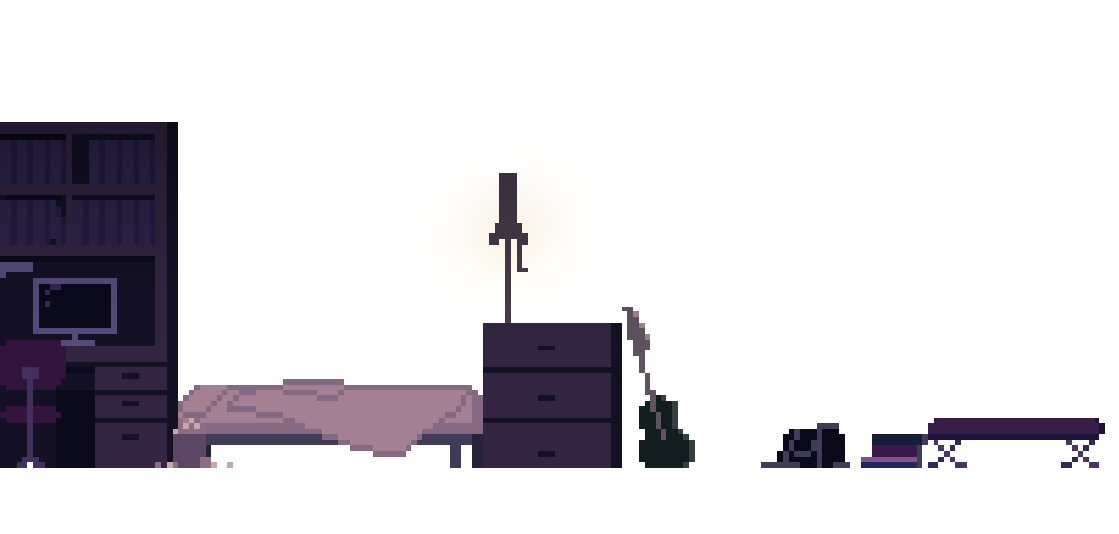
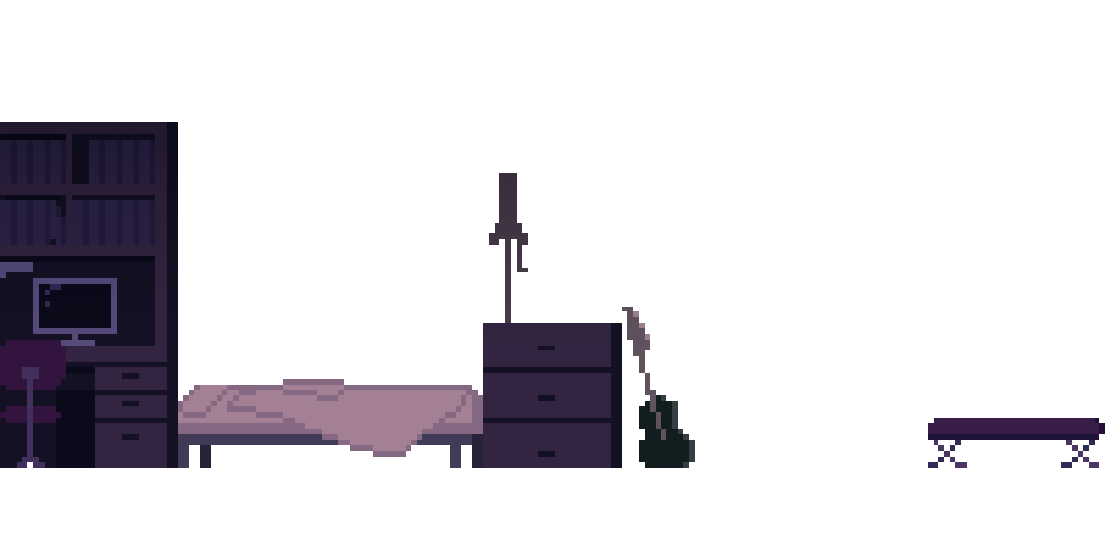
キャラクターの前に表示するオブジェクトを追加する

diff --git a/src/pages/exhibition/index.tsx b/src/pages/exhibition/index.tsx
@@ -2,6 +2,8 @@ import React, { useCallback, useState } from "react";
 import { Exhibition2dBackground } from "~/components/Exhibition/2d/Background";
 import { Exhibition2dCanvas } from "~/components/Exhibition/2d/Canvas";
 import { Exhibition2dCharacter } from "~/components/Exhibition/2d/Character";
+import { Exhibition2dForeground } from "~/components/Exhibition/2d/Foreground";
+import { EXHIBITION_2D_MAX_STEP } from "~/constants/exhibition";
 import { useKeydown } from "~/hooks/useKeydown";
 
 const ExhibitionIndex: React.FC = () => {
@@ -14,10 +16,14 @@ const ExhibitionIndex: React.FC = () => {
 
       if (key === "a" || key === "ArrowLeft") difference = difference - 1;
       if (key === "d" || key === "ArrowRight") difference = difference + 1;
-      if (difference === 0 || step + difference < 0) return;
+      if (difference === 0) return;
+
+      const nextStep = step + difference;
+
+      if (nextStep < 0 || nextStep > EXHIBITION_2D_MAX_STEP) return;
 
       setDirection(difference < 0 ? "left" : "right");
-      setStep(step + difference);
+      setStep(nextStep);
     },
     [step]
   );
@@ -30,6 +36,7 @@ const ExhibitionIndex: React.FC = () => {
     <Exhibition2dCanvas>
       <Exhibition2dBackground step={step} />
       <Exhibition2dCharacter direction={direction} step={step} />
+      <Exhibition2dForeground step={step} />
     </Exhibition2dCanvas>
   );
 };

diff --git a/src/components/Exhibition/2d/Background.tsx b/src/components/Exhibition/2d/Background.tsx
@@ -1,26 +1,17 @@
 import React from "react";
-import { EXHIBITION_2D_HEIGHT } from "~/constants/exhibition";
-
-const Image: React.FC<{ speed?: number; step: number; url: string }> = ({
-  speed,
-  step,
-  url,
-}) => (
-  <image
-    height={EXHIBITION_2D_HEIGHT}
-    style={{
-      imageRendering: "pixelated",
-    }}
-    transform={`translate(-${step * 4 * (speed || 1)} 0)`}
-    xlinkHref={url}
-  />
-);
+import { Exhibition2dObject } from "./Object";
 
 export const Exhibition2dBackground: React.FC<{ step: number }> = React.memo(
   ({ step }) => (
     <>
-      <Image speed={0.9} step={step} url="/exhibition/background/0.png" />
-      <Image step={step} url="/exhibition/background/1.png" />
+      <Exhibition2dObject step={step} url="/exhibition/full.png" />
+      <Exhibition2dObject step={step} url="/exhibition/background/0.png" />
+      <Exhibition2dObject step={step} url="/exhibition/background/1.png" />
+      <Exhibition2dObject
+        step={step}
+        url="/exhibition/background/door.png"
+        x={842}
+      />
     </>
   )
 );

diff --git a/src/components/Exhibition/2d/Foreground.tsx b/src/components/Exhibition/2d/Foreground.tsx
@@ -1,0 +1,32 @@
+import React from "react";
+import { Exhibition2dObject } from "./Object";
+
+export const Exhibition2dForeground: React.FC<{ step: number }> = React.memo(
+  ({ step }) => (
+    <>
+      <Exhibition2dObject
+        speed={1.2}
+        step={step}
+        url="/exhibition/foreground/garbage.png"
+        x={96}
+      />
+      <Exhibition2dObject
+        speed={1.1}
+        step={step}
+        url="/exhibition/foreground/bag.png"
+        x={435}
+      />
+      <Exhibition2dObject
+        speed={1.25}
+        step={step}
+        url="/exhibition/foreground/book.png"
+        x={520}
+      />
+      <Exhibition2dObject
+        step={step}
+        url="/exhibition/foreground/door.png"
+        x={822}
+      />
+    </>
+  )
+);

diff --git a/src/components/Exhibition/2d/Object.tsx b/src/components/Exhibition/2d/Object.tsx
@@ -1,0 +1,17 @@
+import { EXHIBITION_2D_HEIGHT } from "~/constants/exhibition";
+
+export const Exhibition2dObject: React.FC<{
+  speed?: number;
+  step: number;
+  url: string;
+  x?: number;
+}> = ({ speed, step, url, x }) => (
+  <image
+    height={EXHIBITION_2D_HEIGHT}
+    style={{
+      imageRendering: "pixelated",
+    }}
+    transform={`translate(${step * 4 * (speed || 1) * -1 + (x || 0)} 0)`}
+    xlinkHref={url}
+  />
+);

diff --git a/src/constants/exhibition.ts b/src/constants/exhibition.ts
@@ -1,5 +1,6 @@
 export const EXHIBITION_2D_CHARACTER_ANIMATION_FRAME_COUNT = 4;
 export const EXHIBITION_2D_CHARACTER_BOTTOM_OFFSET = 37;
 export const EXHIBITION_2D_CHARACTER_HEIGHT = 128;
+export const EXHIBITION_2D_MAX_STEP = 386;
 export const EXHIBITION_2D_HEIGHT = 300;
 export const EXHIBITION_2D_WIDTH = 400;
